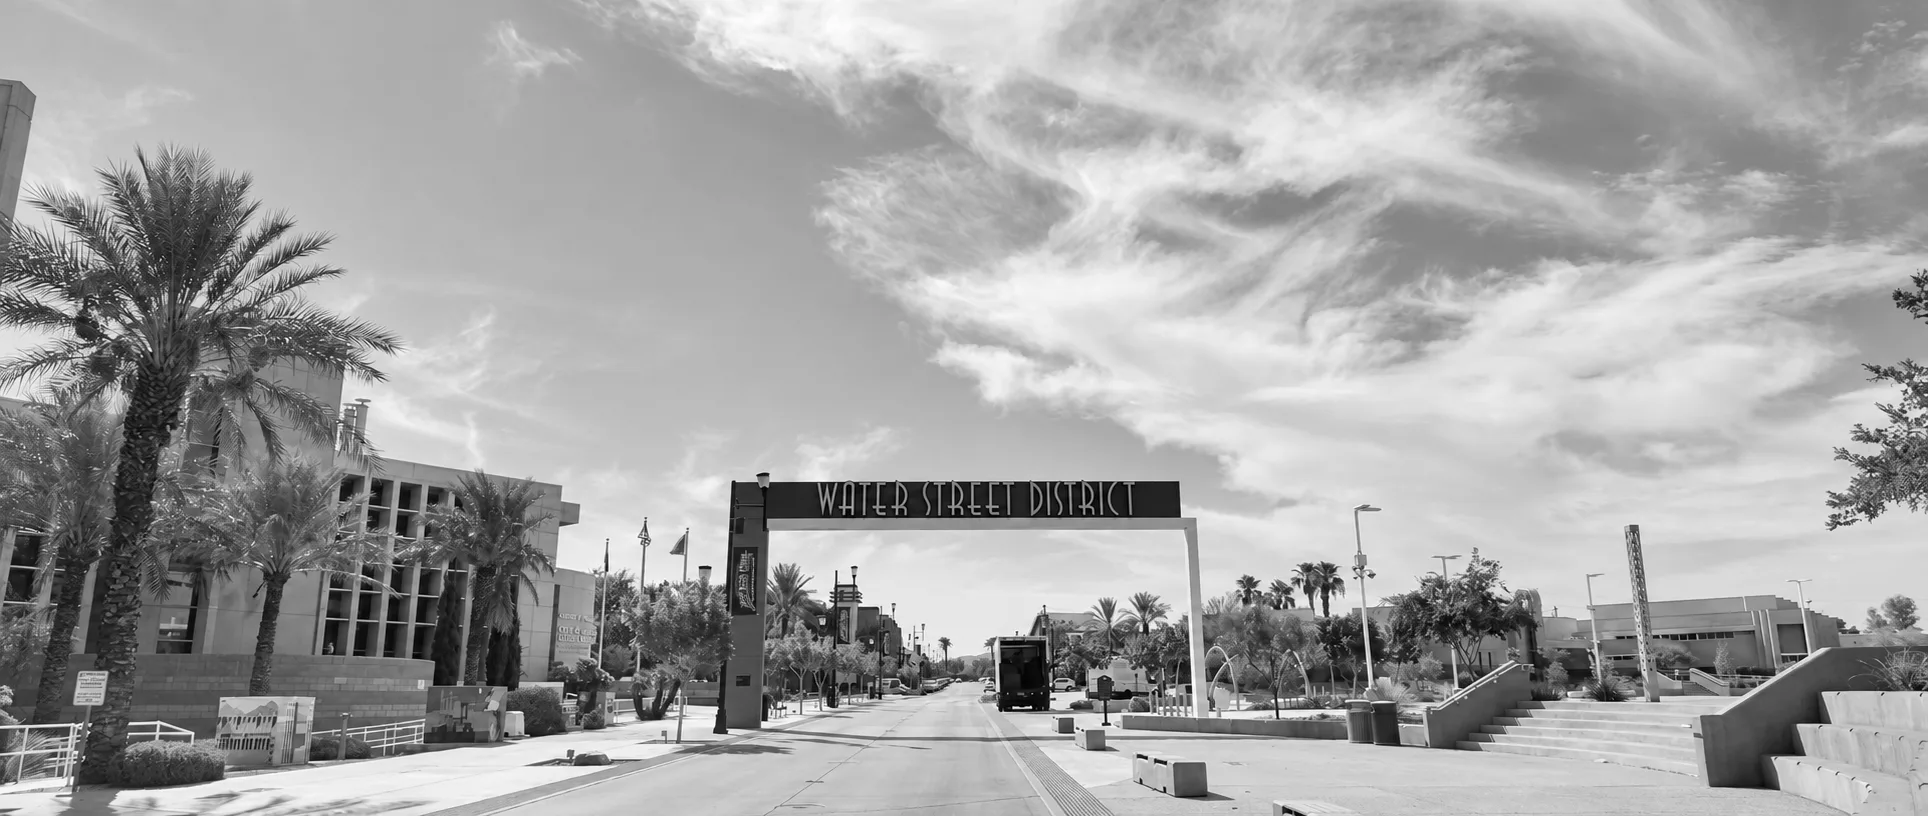
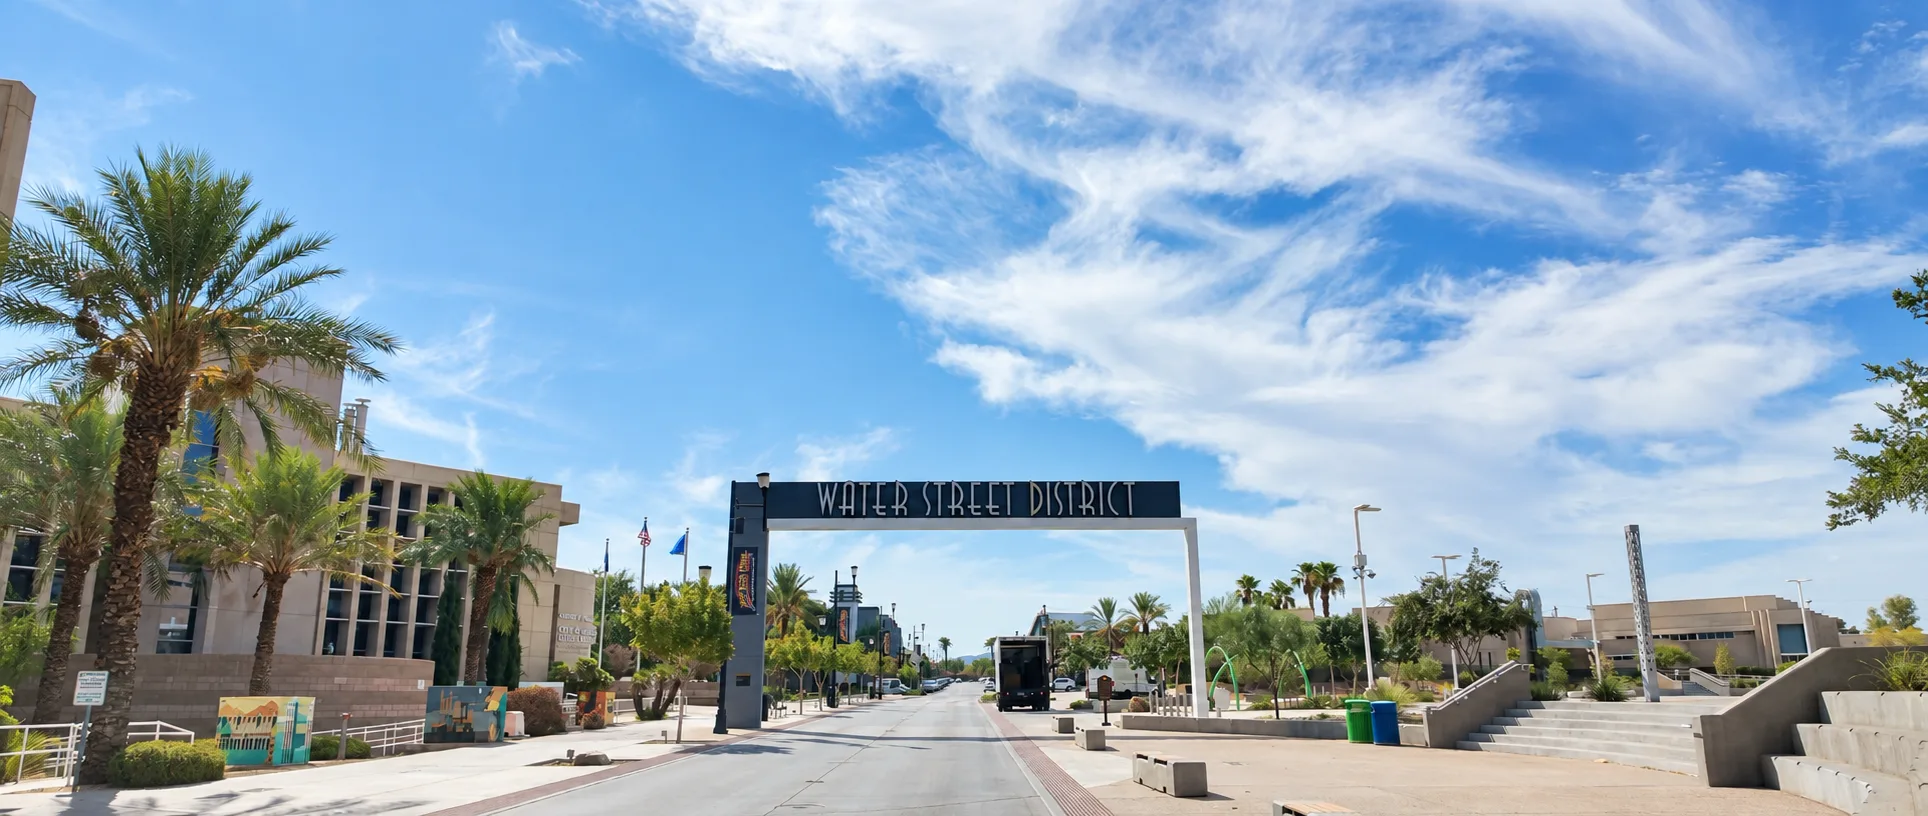
Revert Water Street District hero to color (#41)
Misread the original request: "greyscale image" wasn't an instruction
to convert it to black and white, it was confirming the photo (and the
homepage feed) would show it. Re-export the gateway-arch hero from the
original color source and drop every "greyscale"/"black and white"
reference left over in comments and alt text.

Claude-Session: https://claude.ai/code/session_01Ve9BecRmWpoSWe3DLCwecn

diff --git a/app/guides/water-street-district-henderson/page.tsx b/app/guides/water-street-district-henderson/page.tsx
@@ -104,8 +104,8 @@ import {
 // IMAGERY — Mikey supplied two of his own Water Street District photos
 // directly (uploaded to public/images/), superseding this run's original
 // generated-cover fallback (deleted; nothing references it anymore):
-//   - "water street district.png" -> converted to greyscale WebP, used as
-//     the StoryHero and the /guides + homepage card image:
+//   - "water street district.png" -> optimized to color WebP, used as the
+//     StoryHero and the /guides + homepage card image:
 //     public/images/hero/water-street-district-henderson-gateway-sign-hero.webp
 //     The district's own illuminated gateway arch over South Water Street,
 //     at the covered walkway connecting Henderson's City Hall complex to
@@ -116,8 +116,7 @@ import {
 //     public/images/features/water-street-district-henderson-mackenzies-river-streetscape.webp
 //     Looking down the street at MacKenzie's River Pub and the newer
 //     apartments/retail alongside it.
-//   Both processed with Sharp (existing project dependency): greyscale()
-//   for the hero, straight webp({ quality: 82 }) for the inline figure.
+//   Both processed with Sharp (existing project dependency): webp({ quality: 82 }).
 // ---------------------------------------------------------------------------
 
 const PATH = "/guides/water-street-district-henderson";
@@ -220,7 +219,7 @@ export default function WaterStreetDistrictHendersonPage() {
         image:
           "/images/hero/water-street-district-henderson-gateway-sign-hero.webp",
         imageAlt:
-          "The Water Street District gateway arch spanning South Water Street in downtown Henderson, with palm trees and the City Hall complex alongside it, shown in black and white",
+          "The Water Street District gateway arch spanning South Water Street in downtown Henderson, with palm trees and the City Hall complex alongside it",
         backLink: { label: "Living in Henderson", href: "/neighborhoods/henderson" },
         ctas: [
           { label: "See the numbers", href: "#by-the-numbers", variant: "primary" },

diff --git a/lib/content.ts b/lib/content.ts
@@ -263,11 +263,12 @@ export const guides: Guide[] = [
     // Mikey supplied his own Water Street District photos directly
     // afterward, superseding the run's original generated-cover fallback
     // (deleted; nothing references it anymore). Card image reuses the same
-    // greyscale gateway-arch photo as the page's StoryHero — see that
-    // file's IMAGERY note for the Sharp processing and provenance.
+    // gateway-arch photo as the page's StoryHero — see that file's IMAGERY
+    // note for the Sharp processing and provenance. Also surfaces this guide
+    // on the homepage "Latest from LVINIT" feed (newest three entries).
     image: "/images/hero/water-street-district-henderson-gateway-sign-hero.webp",
     imageAlt:
-      "The Water Street District gateway arch spanning South Water Street in downtown Henderson, shown in black and white",
+      "The Water Street District gateway arch spanning South Water Street in downtown Henderson",
     href: "/guides/water-street-district-henderson",
   },
   {

diff --git a/docs/PROJECT_STATE.md b/docs/PROJECT_STATE.md
@@ -113,7 +113,7 @@ app/
 | `/guides/las-vegas-home-prices-august-2026` | Market Watch guide | Live | Story Page system; built via the autonomous scheduled editorial-publishing routine on fresh news: Las Vegas Realtors' August 2026 housing report (median single-family $475,000, &minus;1.0% YoY, &minus;3.1% off the May/June record; condo/townhome $299,900, +0.6% YoY; 2,252 total sales; 7,590 SFH + 2,714 condo/TH listed without offers; supply just over 4.5 months; 74.8% of SFH and 68.9% of condo/TH sold within 60 days) — verified against the full text of Nevada Business Magazine (published Sept 8, 2026, fetched independently twice with identical figures); LVR's own site returned HTTP 429 on every attempt this run and no second full-text 2026 carrier turned up in search, so the YoY percentages were independently cross-checked arithmetically against separately reported August 2025 baseline dollar figures instead. Central finding: single-family days-on-market reversed from July (faster YoY in July, slower YoY in August) — the slowdown that was condo-only in July has spread to single-family homes. Reuses the already-approved, already-in-repo Las Vegas residential aerial drone photo (`hero/las-vegas-residential-neighborhood-aerial-drone.webp`, already live on the down-payment-assistance guide) as hero + card rather than a generated cover or the July piece's own card photo, since a real valley-wide aerial fits and keeps the two cards visually distinct; `C:\LVINIT\Images` was not reachable from this cloud session. FAQPage + Article + Breadcrumb JSON-LD; cross-linked both directions with `las-vegas-home-prices-july-2026`, `las-vegas-mortgage-rates-september-2026`, and `will-las-vegas-home-prices-drop` (each gained a forward-pointing update note and/or `relatedStories` entry), plus links to `what-500k-buys-in-las-vegas`, `las-vegas-starter-home-prices-2026`, `/neighborhoods/summerlin`, and `/search`; sitemap entry; registered in `lib/content.ts` `guides[]`. |
 | `/guides/sandstone-tule-springs-north-las-vegas` | Local Feature guide | Live | Story Page system; built via the autonomous scheduled editorial-publishing routine on fresh, well-corroborated news: KB Home's own press release (Sept 4, 2026) announcing first-phase sales at Sandstone, a nearly 300-acre, 1,500-home master-planned community in North Las Vegas's Tule Springs area, independently corroborated by the Las Vegas Review-Journal (Eli Segall, Sept 8, 2026) and confirmed against KB Home's own community pages (Landings from the high $300,000s, Reserves from the mid $400,000s). Unlike Monument Hills (nothing buyable until spring 2028), this is an actionable, buy-now story — genuinely new ground for LVINIT, not a duplicate of any recent Market Watch or Local Feature piece. Compares Sandstone's pricing only to the already-verified $475,000 valley-wide resale median (LVR, August 2026); deliberately did not use a "$535,000 median new-home price" figure that surfaced in one fetch because it didn't reconcile with LVINIT's already-published $581,930 July 2026 new-construction median. Originally carried a generated LVINIT editorial cover and a photoless `StoryHero` (no repo photography depicted this still-under-construction site and `C:\LVINIT\Images` wasn't reachable that run). **Updated 2026-09-14, at Mikey's live request:** he uploaded five real images pulled directly from KB Home's own site. The community's own model-home photo/rendering now runs as both `StoryHero` and `/guides` card image (`hero/sandstone-tule-springs-model-homes-hero.webp`, `imageMode` "photo"), and the other four — KB Home's own "nearby lifestyle" marketing photos for pickleball, golf, hiking, and Mount Charleston — are placed inline via `StoryGallery` in a new "What's nearby, per KB Home" section (added alongside further-verified KB Home community-page claims about proximity to Shadow Creek Golf Course, Aliante Golf Club, and Mount Charleston/Lee Canyon). None of these are Mikey's photography, so a visible "Photo: KB Home" credit banner runs below the hero and every inline caption repeats the credit — overriding the footer's default photography attribution for this page — and captions describe only what's visibly in each representative image rather than claiming it depicts a specific named course, trail, or Mount Charleston itself. The superseded generated cover was deleted. Article + Breadcrumb JSON-LD; cross-linked both directions with `/neighborhoods/north-las-vegas` (new inline paragraph + `RelatedNeighborhood` card back) and `/guides/monument-hills-northwest-las-vegas` (new `relatedStories` entry on both sides), plus links to `/guides/las-vegas-new-home-sales-july-2026` and `/guides/las-vegas-home-prices-august-2026`; sitemap entry; registered in `lib/content.ts` `guides[]`. |
 | `/guides/fiesta-henderson-redevelopment` | Local Feature guide | Live | Story Page system; built via the autonomous scheduled editorial-publishing routine, following through on the Henderson pillar guide's own Development Watch prediction that a Fiesta Henderson site announcement was coming "in fall 2026." On Sept 8, 2026 the city and California developer Agora Realty & Management (independently verified via direct fetch of both the Las Vegas Review-Journal and Las Vegas Sun, who each filed from the same news conference) unveiled a conceptual plan: a 150,000 sq ft indoor fieldhouse (10 basketball courts, 20 volleyball courts, batting cages), outdoor sports fields, a hotel, 75,000 sq ft retail/dining, and 30,000 sq ft office space, with Agora to buy the 35-acre site from the city for $30M (the city itself paid $32M for it in 2022). Central honesty hook: Agora's own president of acquisitions and leasing told the RJ this is "a conceptual plan," not an approved one — no council hearing scheduled, costs/timeline undetermined — and this is the site's *second* named developer after a 2024 deal with Woodbury Corp. fell through, which the piece states plainly. A $108M total-cost figure circulating in secondary radio-aggregator headlines was deliberately excluded: it contradicts the developer's own on-the-record statement and appears in neither primary source. A dedicated section explicitly distinguishes this project from the separate, already-under-construction West Henderson Fieldhouse (different site, different funding, different developer) to prevent a real and likely reader mix-up between two similarly-named Henderson sports facilities. No repo photography depicts this still-vacant lot, and `C:\LVINIT\Images` wasn't reachable from this cloud session, so it originally carried a generated LVINIT editorial cover and a photoless `StoryHero`; per Mikey's explicit, live request it now uses an AI-generated concept illustration he supplied directly (bypassing CLAUDE.md's no-AI-imagery default for this one piece, no photo credit) as the `StoryHero` image and the `/guides` card image alike, with a visible on-page disclosure notice below the hero clarifying it's not an official Agora/Henderson rendering (`features/fiesta-henderson-ai-concept-illustration.webp`; the superseded generated cover was deleted). Article + Breadcrumb JSON-LD; cross-linked both directions with `/neighborhoods/henderson` (updated Development Watch entry + inline "Historic Henderson" paragraph link + new `RelatedStories` card back), plus links to `/guides/one-civic-center-north-las-vegas-redevelopment` (same developer, different city) and `/guides/henderson-vs-southwest-las-vegas`; sitemap entry; registered in `lib/content.ts` `guides[]`. |
-| `/guides/water-street-district-henderson` | Local Feature guide | Live | Story Page system; built via the autonomous scheduled editorial-publishing routine. No fresh, corroborated breaking story cleared the 24-72h sourcing bar this run, so the routine filled a genuine, explicitly flagged gap instead: docs/PROJECT_STATE.md's own "Future Neighborhood Pages" section named the Water Street District as one of the three strongest remaining Henderson child-guide candidates, already written up (unlinked) in the Henderson pillar's community roster. Central hook, cross-checked across multiple sources: The Watermark, a 151-unit mixed-use building at 215 S. Water Street, took a $37.5M construction loan from ACRES Capital in 2021 (confirmed via ACRES's own transaction page), stalled and went bankrupt in 2024 amid 20%+ cost overruns, was rescued by a $27.9M loan in Feb. 2025 (independently reported by KTNV, Fox5 Vegas, and The Real Deal, plus a real, attributed Mayor Michelle Romero quote), opened to residents, and then went into foreclosure this spring (2026) over $41.5M+ in unpaid debt before being bought by Next Wave Investors (San Clemente, CA) — reported by the Las Vegas Review-Journal, whose article returned HTTP 403 on every direct WebFetch attempt this run, so those specific figures were cross-checked across multiple independent search passes returning identical numbers, plus direct confirmation of Next Wave's own identity via the firm's site/LinkedIn. Also covers Atwell Suites (90 rooms, opened Nov. 21, 2024, PR Newswire) and the America First Center's June 2023 rename from Lifeguard Arena (NHL.com). Deliberately does NOT assert a current status for "The Waterfalls," a second stalled tower on the same street — flagged as genuinely unclear rather than guessed. **Updated 2026-09-16:** Mikey supplied two of his own Water Street District photos directly; a greyscale gateway-arch shot (`hero/water-street-district-henderson-gateway-sign-hero.webp`) now serves as the `StoryHero` and the `/guides`/homepage card image, replacing the run's original generated editorial cover (deleted), and a color streetscape figure (`features/water-street-district-henderson-mackenzies-river-streetscape.webp`) runs inline via `StoryGallery`. Article + Breadcrumb JSON-LD; cross-linked both directions with `/neighborhoods/henderson` (new `href` on the Water Street District roster entry, turning it from unlinked text into a real link, plus a new inline clause in the "Historic Henderson and Water Street" paragraph, plus a `RelatedNeighborhood` card back) and `/guides/fiesta-henderson-redevelopment`, plus a link to `/guides/henderson-vs-southwest-las-vegas`; sitemap entry; registered in `lib/content.ts` `guides[]`. |
+| `/guides/water-street-district-henderson` | Local Feature guide | Live | Story Page system; built via the autonomous scheduled editorial-publishing routine. No fresh, corroborated breaking story cleared the 24-72h sourcing bar this run, so the routine filled a genuine, explicitly flagged gap instead: docs/PROJECT_STATE.md's own "Future Neighborhood Pages" section named the Water Street District as one of the three strongest remaining Henderson child-guide candidates, already written up (unlinked) in the Henderson pillar's community roster. Central hook, cross-checked across multiple sources: The Watermark, a 151-unit mixed-use building at 215 S. Water Street, took a $37.5M construction loan from ACRES Capital in 2021 (confirmed via ACRES's own transaction page), stalled and went bankrupt in 2024 amid 20%+ cost overruns, was rescued by a $27.9M loan in Feb. 2025 (independently reported by KTNV, Fox5 Vegas, and The Real Deal, plus a real, attributed Mayor Michelle Romero quote), opened to residents, and then went into foreclosure this spring (2026) over $41.5M+ in unpaid debt before being bought by Next Wave Investors (San Clemente, CA) — reported by the Las Vegas Review-Journal, whose article returned HTTP 403 on every direct WebFetch attempt this run, so those specific figures were cross-checked across multiple independent search passes returning identical numbers, plus direct confirmation of Next Wave's own identity via the firm's site/LinkedIn. Also covers Atwell Suites (90 rooms, opened Nov. 21, 2024, PR Newswire) and the America First Center's June 2023 rename from Lifeguard Arena (NHL.com). Deliberately does NOT assert a current status for "The Waterfalls," a second stalled tower on the same street — flagged as genuinely unclear rather than guessed. **Updated 2026-09-16:** Mikey supplied two of his own Water Street District photos directly; a color gateway-arch shot (`hero/water-street-district-henderson-gateway-sign-hero.webp`) now serves as the `StoryHero` and the `/guides`/homepage card image, replacing the run's original generated editorial cover (deleted), and a second color streetscape figure (`features/water-street-district-henderson-mackenzies-river-streetscape.webp`) runs inline via `StoryGallery`. Article + Breadcrumb JSON-LD; cross-linked both directions with `/neighborhoods/henderson` (new `href` on the Water Street District roster entry, turning it from unlinked text into a real link, plus a new inline clause in the "Historic Henderson and Water Street" paragraph, plus a `RelatedNeighborhood` card back) and `/guides/fiesta-henderson-redevelopment`, plus a link to `/guides/henderson-vs-southwest-las-vegas`; sitemap entry; registered in `lib/content.ts` `guides[]`. |
 | `/search` | IDX search | Live | Matrix IDX embed `idx=3652dd5`; do not modify embed behavior without instruction |
 | `/contact` | Contact | Live | ContactForm → `/api/contact` (Resend) with mailto fallback |
 | `/api/contact` | Route handler | Live | Returns 503 until `RESEND_API_KEY` is set, so no fake service ships |
@@ -992,9 +992,9 @@ Placeholder content that must be replaced before it can be considered "done"
   Henderson hero with a bright upper-left needs its hero text contrast
   re-measured before it ships. **Water Street at ground level is resolved** —
   Mikey supplied two real photos of the district directly (2026-09-16), now
-  live on `/guides/water-street-district-henderson`: a greyscale gateway-arch
-  shot as the hero/card image and a color streetscape (MacKenzie's River Pub)
-  as an inline figure. Still wanted, in rough priority order: Green Valley's
+  live on `/guides/water-street-district-henderson`: a color gateway-arch
+  shot as the hero/card image and a second color streetscape (MacKenzie's
+  River Pub) as an inline figure. Still wanted, in rough priority order: Green Valley's
   mature tree canopy, the empty desert stretch on Lake Mead Pkwy toward Lake
   Las Vegas, and an Inspirada or Cadence streetscape with staked saplings as
   the counterpoint to Green Valley. (`neighborhood-henderson.jpg` remains one
